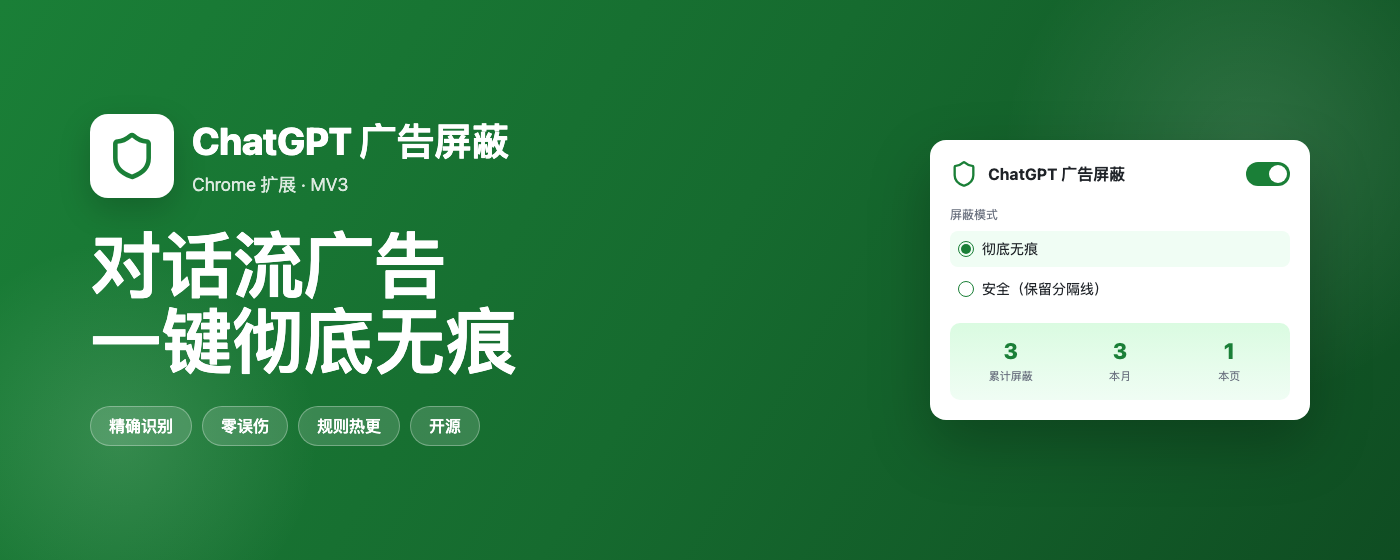
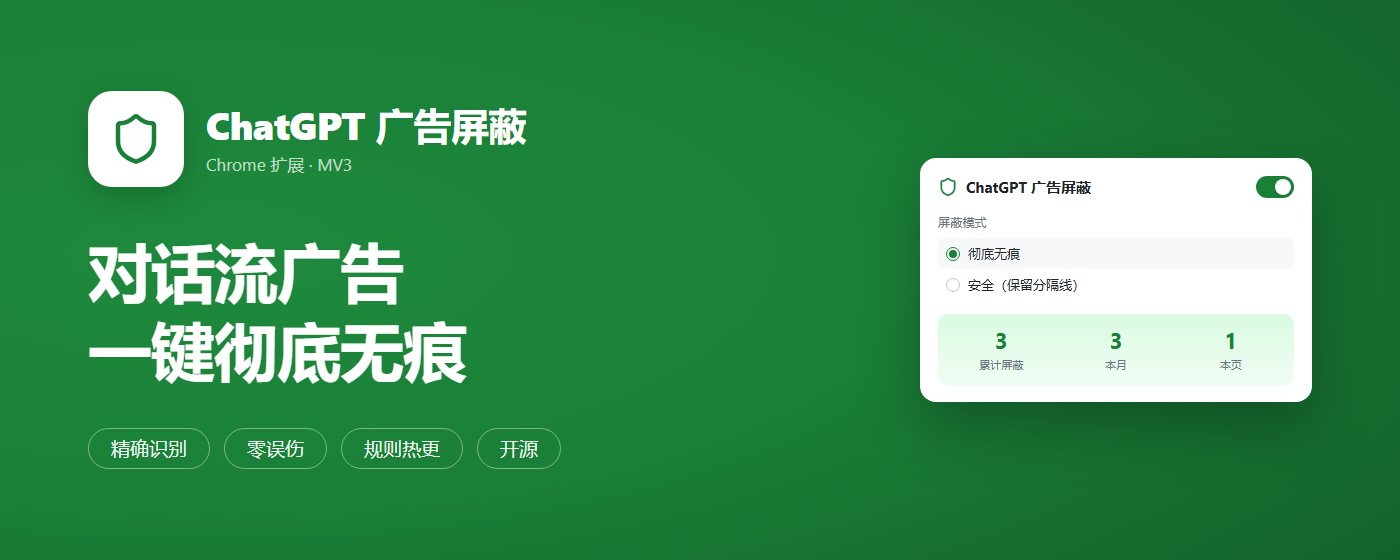
feat(promo): 新增中英双语宣传图模板与素材
- 新增 tools/promo-templates/ 宣传图 HTML 模板（中英共用，?lang=zh|en）
- 生成英文版 promo_marquee_en.png / promo_small_en.png
- 修复模板开关被 flex 拉伸过宽的问题
- 同步更新 README 与商店素材说明（含 headless 渲染尺寸补偿说明）

diff --git a/tools/promo-templates/promo_marquee.html b/tools/promo-templates/promo_marquee.html
@@ -1,0 +1,175 @@
+<!DOCTYPE html>
+<html lang="zh-CN">
+<head>
+<meta charset="UTF-8">
+<title>ChatGPT 广告屏蔽 · 宣传图（marquee）</title>
+<style>
+  * { box-sizing: border-box; margin: 0; padding: 0; }
+  :root {
+    --green: #1a7f37;
+    --green-bright: #1e8a3d;
+    --green-dark: #0f4d22;
+    --ink: #1f2328;
+    --ink-soft: #6b7280;
+    --border: #d0d7de;
+    --bg-soft: #f6f8fa;
+  }
+  html, body { width: 1400px; height: 560px; }
+  body {
+    font-family: -apple-system, BlinkMacSystemFont, "Segoe UI", "PingFang SC", "Microsoft YaHei", sans-serif;
+    background: radial-gradient(140% 130% at 15% 45%, var(--green-bright) 0%, var(--green) 36%, var(--green-dark) 100%);
+    color: #fff;
+    display: flex;
+    align-items: center;
+    gap: 64px;
+    padding: 0 88px;
+    overflow: hidden;
+  }
+
+  /* ---------- 左侧品牌区 ---------- */
+  .left { flex: 1; min-width: 0; }
+  .brand { display: flex; align-items: center; gap: 22px; }
+  .brand-logo {
+    width: 96px; height: 96px; border-radius: 24px; background: #fff;
+    display: flex; align-items: center; justify-content: center;
+    box-shadow: 0 10px 30px rgba(0, 0, 0, 0.18);
+  }
+  .brand-logo svg { width: 54px; height: 54px; color: var(--green); }
+  .brand-name { font-size: 38px; font-weight: 800; letter-spacing: -0.3px; line-height: 1.1; }
+  .brand-sub { font-size: 17px; color: rgba(255, 255, 255, 0.72); margin-top: 7px; }
+
+  .headline { margin-top: 44px; font-size: 64px; font-weight: 800; line-height: 1.22; letter-spacing: -1px; }
+
+  .tags { margin-top: 40px; display: flex; gap: 14px; flex-wrap: wrap; }
+  .tag {
+    border: 1px solid rgba(255, 255, 255, 0.42); border-radius: 999px;
+    padding: 10px 22px; font-size: 19px; line-height: 1; color: rgba(255, 255, 255, 0.95);
+    white-space: nowrap;
+  }
+
+  /* ---------- 右侧 popup 卡片 ---------- */
+  .card {
+    width: 392px; flex-shrink: 0; background: #fff; color: var(--ink);
+    border-radius: 16px; padding: 18px 18px 16px;
+    box-shadow: 0 24px 60px rgba(0, 0, 0, 0.28);
+  }
+  .c-head { display: flex; align-items: center; gap: 8px; margin-bottom: 16px; }
+  .c-head svg { width: 20px; height: 20px; color: var(--green); flex-shrink: 0; }
+  .c-head .c-name { font-size: 15px; font-weight: 700; flex: 1; min-width: 0; line-height: 1; }
+  .c-toggle {
+    width: 38px; height: 22px; border-radius: 22px; background: var(--green);
+    position: relative; flex-shrink: 0;
+  }
+  .c-toggle::before {
+    content: ""; position: absolute; width: 16px; height: 16px; left: 19px; top: 3px;
+    background: #fff; border-radius: 50%; box-shadow: 0 1px 2px rgba(0, 0, 0, 0.15);
+  }
+  .c-label { font-size: 12px; color: var(--ink-soft); margin-bottom: 8px; letter-spacing: 0.2px; }
+  .c-opt {
+    display: flex; align-items: center; gap: 8px; padding: 7px 8px;
+    font-size: 13px; border-radius: 6px;
+  }
+  .c-opt.active { background: var(--bg-soft); }
+  .c-radio {
+    width: 14px; height: 14px; border: 1.5px solid #c1c5cb; border-radius: 50%;
+    flex-shrink: 0; position: relative;
+  }
+  .c-opt.active .c-radio { border-color: var(--green); }
+  .c-opt.active .c-radio::after {
+    content: ""; position: absolute; inset: 2px; background: var(--green); border-radius: 50%;
+  }
+  .c-stats {
+    display: flex; gap: 4px; margin-top: 14px; padding: 14px 8px;
+    background: linear-gradient(180deg, #dafbe1 0%, #f0fdf4 100%); border-radius: 10px;
+  }
+  .c-stats div { flex: 1; text-align: center; }
+  .c-stats b {
+    display: block; font-size: 22px; font-weight: 700; color: var(--green);
+    line-height: 1.1; font-variant-numeric: tabular-nums;
+  }
+  .c-stats i { display: block; font-size: 11px; font-style: normal; color: var(--ink-soft); margin-top: 4px; }
+</style>
+</head>
+<body>
+  <div class="left">
+    <div class="brand">
+      <div class="brand-logo">
+        <svg viewBox="0 0 24 24" fill="none" stroke="currentColor" stroke-width="2" stroke-linecap="round" stroke-linejoin="round"><path d="M20 13c0 5-3.5 7.5-7.66 8.95a1 1 0 0 1-.67-.01C7.5 20.5 4 18 4 13V6a1 1 0 0 1 1-1c2 0 4.5-1.2 6.24-2.72a1.17 1.17 0 0 1 1.52 0C14.51 3.81 17 5 19 5a1 1 0 0 1 1 1z"/></svg>
+      </div>
+      <div>
+        <div class="brand-name" data-i="name">ChatGPT 广告屏蔽</div>
+        <div class="brand-sub" data-i="sub">Chrome 扩展 · MV3</div>
+      </div>
+    </div>
+
+    <div class="headline">
+      <div data-i="h1">对话流广告</div>
+      <div data-i="h2">一键彻底无痕</div>
+    </div>
+
+    <div class="tags" data-i-list="tags">
+      <span class="tag" data-i-item>精确识别</span>
+      <span class="tag" data-i-item>零误伤</span>
+      <span class="tag" data-i-item>规则热更</span>
+      <span class="tag" data-i-item>开源</span>
+    </div>
+  </div>
+
+  <div class="card">
+    <div class="c-head">
+      <svg viewBox="0 0 24 24" fill="none" stroke="currentColor" stroke-width="2" stroke-linecap="round" stroke-linejoin="round"><path d="M20 13c0 5-3.5 7.5-7.66 8.95a1 1 0 0 1-.67-.01C7.5 20.5 4 18 4 13V6a1 1 0 0 1 1-1c2 0 4.5-1.2 6.24-2.72a1.17 1.17 0 0 1 1.52 0C14.51 3.81 17 5 19 5a1 1 0 0 1 1 1z"/></svg>
+      <span class="c-name" data-i="cardName">ChatGPT 广告屏蔽</span>
+      <span class="c-toggle"></span>
+    </div>
+    <div class="c-label" data-i="cardLabel">屏蔽模式</div>
+    <div class="c-opt active"><span class="c-radio"></span><span data-i="opt1">彻底无痕</span></div>
+    <div class="c-opt"><span class="c-radio"></span><span data-i="opt2">安全（保留分隔线）</span></div>
+    <div class="c-stats">
+      <div><b>3</b><i data-i="s1">累计屏蔽</i></div>
+      <div><b>3</b><i data-i="s2">本月</i></div>
+      <div><b>1</b><i data-i="s3">本页</i></div>
+    </div>
+  </div>
+
+  <script>
+    (function () {
+      'use strict';
+      var I18N = {
+        zh: {
+          title: 'ChatGPT 广告屏蔽 · 宣传图',
+          name: 'ChatGPT 广告屏蔽', sub: 'Chrome 扩展 · MV3',
+          h1: '对话流广告', h2: '一键彻底无痕',
+          tags: ['精确识别', '零误伤', '规则热更', '开源'],
+          cardName: 'ChatGPT 广告屏蔽', cardLabel: '屏蔽模式',
+          opt1: '彻底无痕', opt2: '安全（保留分隔线）',
+          s1: '累计屏蔽', s2: '本月', s3: '本页'
+        },
+        en: {
+          title: 'ChatGPT Ad Blocker · Promo',
+          name: 'ChatGPT Ad Blocker', sub: 'Chrome Extension · MV3',
+          h1: 'In-chat ads', h2: 'Blocked seamlessly',
+          tags: ['Precise', 'Zero false positives', 'Hot-updatable rules', 'Open source'],
+          cardName: 'ChatGPT Ad Blocker', cardLabel: 'Blocking mode',
+          opt1: 'Seamless', opt2: 'Safe (keep divider)',
+          s1: 'Total blocked', s2: 'This month', s3: 'This page'
+        }
+      };
+      var lang = 'zh';
+      try { if (new URLSearchParams(location.search).get('lang') === 'en') lang = 'en'; } catch (e) { /* ignore */ }
+      var t = I18N[lang];
+      document.documentElement.lang = lang === 'en' ? 'en' : 'zh-CN';
+      document.title = t.title;
+      document.querySelectorAll('[data-i]').forEach(function (el) {
+        var v = t[el.getAttribute('data-i')];
+        if (typeof v === 'string') el.textContent = v;
+      });
+      document.querySelectorAll('[data-i-list]').forEach(function (el) {
+        var arr = t[el.getAttribute('data-i-list')] || [];
+        el.querySelectorAll('[data-i-item]').forEach(function (item, i) {
+          if (arr[i] != null) item.textContent = arr[i];
+        });
+      });
+    })();
+  </script>
+</body>
+</html>

diff --git a/tools/promo-templates/promo_small.html b/tools/promo-templates/promo_small.html
@@ -1,0 +1,102 @@
+<!DOCTYPE html>
+<html lang="zh-CN">
+<head>
+<meta charset="UTF-8">
+<title>ChatGPT 广告屏蔽 · 宣传图（small）</title>
+<style>
+  * { box-sizing: border-box; margin: 0; padding: 0; }
+  :root {
+    --green: #1a7f37;
+    --green-bright: #1e8a3d;
+    --green-dark: #0f4d22;
+  }
+  html, body { width: 440px; height: 280px; }
+  body {
+    font-family: -apple-system, BlinkMacSystemFont, "Segoe UI", "PingFang SC", "Microsoft YaHei", sans-serif;
+    background: radial-gradient(150% 140% at 18% 40%, var(--green-bright) 0%, var(--green) 40%, var(--green-dark) 100%);
+    color: #fff;
+    display: flex;
+    flex-direction: column;
+    justify-content: space-between;
+    padding: 26px 28px;
+    overflow: hidden;
+  }
+
+  .brand { display: flex; align-items: center; gap: 14px; }
+  .brand-logo {
+    width: 54px; height: 54px; border-radius: 14px; background: #fff;
+    display: flex; align-items: center; justify-content: center;
+    box-shadow: 0 6px 18px rgba(0, 0, 0, 0.18);
+  }
+  .brand-logo svg { width: 31px; height: 31px; color: var(--green); }
+  .brand-name { font-size: 23px; font-weight: 800; letter-spacing: -0.2px; line-height: 1.1; }
+  .brand-sub { font-size: 13px; color: rgba(255, 255, 255, 0.72); margin-top: 4px; }
+
+  .headline { font-size: 36px; font-weight: 800; line-height: 1.24; letter-spacing: -0.6px; }
+
+  .tags { display: flex; gap: 10px; flex-wrap: wrap; }
+  .tag {
+    border: 1px solid rgba(255, 255, 255, 0.42); border-radius: 999px;
+    padding: 6px 14px; font-size: 13px; line-height: 1; color: rgba(255, 255, 255, 0.95);
+    white-space: nowrap;
+  }
+</style>
+</head>
+<body>
+  <div class="brand">
+    <div class="brand-logo">
+      <svg viewBox="0 0 24 24" fill="none" stroke="currentColor" stroke-width="2" stroke-linecap="round" stroke-linejoin="round"><path d="M20 13c0 5-3.5 7.5-7.66 8.95a1 1 0 0 1-.67-.01C7.5 20.5 4 18 4 13V6a1 1 0 0 1 1-1c2 0 4.5-1.2 6.24-2.72a1.17 1.17 0 0 1 1.52 0C14.51 3.81 17 5 19 5a1 1 0 0 1 1 1z"/></svg>
+    </div>
+    <div>
+      <div class="brand-name" data-i="name">ChatGPT 广告屏蔽</div>
+      <div class="brand-sub" data-i="sub">Chrome 扩展</div>
+    </div>
+  </div>
+
+  <div class="headline">
+    <div data-i="h1">彻底无痕</div>
+    <div data-i="h2">零误伤</div>
+  </div>
+
+  <div class="tags" data-i-list="tags">
+    <span class="tag" data-i-item>精确识别</span>
+    <span class="tag" data-i-item>规则热更</span>
+    <span class="tag" data-i-item>开源</span>
+  </div>
+
+  <script>
+    (function () {
+      'use strict';
+      var I18N = {
+        zh: {
+          title: 'ChatGPT 广告屏蔽 · 宣传图',
+          name: 'ChatGPT 广告屏蔽', sub: 'Chrome 扩展',
+          h1: '彻底无痕', h2: '零误伤',
+          tags: ['精确识别', '规则热更', '开源']
+        },
+        en: {
+          title: 'ChatGPT Ad Blocker · Promo',
+          name: 'ChatGPT Ad Blocker', sub: 'Chrome Extension',
+          h1: 'Seamless', h2: 'Zero false positives',
+          tags: ['Precise', 'Hot-updatable rules', 'Open source']
+        }
+      };
+      var lang = 'zh';
+      try { if (new URLSearchParams(location.search).get('lang') === 'en') lang = 'en'; } catch (e) { /* ignore */ }
+      var t = I18N[lang];
+      document.documentElement.lang = lang === 'en' ? 'en' : 'zh-CN';
+      document.title = t.title;
+      document.querySelectorAll('[data-i]').forEach(function (el) {
+        var v = t[el.getAttribute('data-i')];
+        if (typeof v === 'string') el.textContent = v;
+      });
+      document.querySelectorAll('[data-i-list]').forEach(function (el) {
+        var arr = t[el.getAttribute('data-i-list')] || [];
+        el.querySelectorAll('[data-i-item]').forEach(function (item, i) {
+          if (arr[i] != null) item.textContent = arr[i];
+        });
+      });
+    })();
+  </script>
+</body>
+</html>

diff --git a/docs/assets/store/README.md b/docs/assets/store/README.md
@@ -16,9 +16,13 @@ docs/assets/store/
 │   ├── feature-popup-en.png      # 功能总览场景·English（1280×800）
 │   ├── feature-chat-zh.png       # 对话流屏蔽效果·中文（1280×800）
 │   └── feature-chat-en.png       # 对话流屏蔽效果·English（1280×800）
-├── promo_small.png               # 小型宣传图（440×280）
-└── promo_marquee.png             # 大型宣传图（1400×560）
+├── promo_small.png               # 小型宣传图·中文（440×280）
+├── promo_small_en.png            # 小型宣传图·English（440×280）
+├── promo_marquee.png             # 大型宣传图·中文（1400×560）
+└── promo_marquee_en.png          # 大型宣传图·English（1400×560）
 ```
+
+> 宣传图模板位于仓库根目录 `tools/promo-templates/promo_{small,marquee}.html`，支持 `?lang=zh|en`（中英同一套模板、同一份内容，仅文案不同）。
 
 ## 重新生成方法
 
@@ -51,20 +55,35 @@ for p in popup-zh popup-en chat-zh chat-en; do
     "http://localhost:8766/.temp/store-mock/scene-$p.html"
 done
 
-# 宣传图 small（440×280）
-"$CHROME" --headless --disable-gpu --hide-scrollbars \
-  --window-size=440,280 \
-  --screenshot=docs/assets/store/promo_small.png \
-  http://localhost:8766/docs/_mock/promo_small.html
+# ── 宣传图（中英双语，440×280 / 1400×560）──────────────────────
+# 模板：tools/promo-templates/promo_{small,marquee}.html，支持 ?lang=zh|en
+#
+# ⚠ 新版 Chrome headless 的 --window-size 是「窗口」尺寸：
+#    实际视口 = 窗口 − (16, 95)，而 --screenshot 截取整个窗口。
+#    因此要按「目标尺寸 + (16, 95)」渲染，再裁剪回目标尺寸：
+#      marquee 目标 1400×560 → 窗口 1416,655
+#      small   目标  440×280 → 窗口  456,375
+#    并加 --user-data-dir 避免复用已运行的 Chrome 会话导致参数失效。
 
-# 宣传图 marquee（1400×560）
-"$CHROME" --headless --disable-gpu --hide-scrollbars \
-  --window-size=1400,560 \
-  --screenshot=docs/assets/store/promo_marquee.png \
-  http://localhost:8766/docs/_mock/promo_marquee.html
+# 渲染（Windows / PowerShell，已验证）
+$chrome = "C:\Program Files\Google\Chrome\Application\chrome.exe"
+& $chrome --headless=new --disable-gpu --hide-scrollbars --user-data-dir="$env:TEMP\cbad-shot" `
+  --window-size=1416,655 --virtual-time-budget=2000 `
+  --screenshot="$env:TEMP\marquee_en.png" "file://$PWD/tools/promo-templates/promo_marquee.html?lang=en"
+
+# 裁剪回目标尺寸（System.Drawing）
+Add-Type -AssemblyName System.Drawing
+$i=[System.Drawing.Image]::FromFile("$env:TEMP\marquee_en.png")
+$b=New-Object System.Drawing.Bitmap 1400,560
+$g=[System.Drawing.Graphics]::FromImage($b)
+$g.DrawImage($i,(New-Object System.Drawing.Rectangle 0,0,1400,560),(New-Object System.Drawing.Rectangle 0,0,1400,560),[System.Drawing.GraphicsUnit]::Pixel)
+$b.Save("docs/assets/store/promo_marquee_en.png",[System.Drawing.Imaging.ImageFormat]::Png)
+
+# macOS：裁剪可直接用 sips
+#   sips -c 560 1400 "$TMPDIR/marquee_en.png" --out docs/assets/store/promo_marquee_en.png
 ```
 
-> HTML 模板的当前版本已与截图同步，**修改模板后需重新截图**才能在商店生效。模板可放 `docs/_mock/` 或 `tools/promo-templates/` 自行维护。
+> HTML 模板的当前版本已与截图同步，**修改模板后需重新截图**才能在商店生效。宣传图模板统一放在 `tools/promo-templates/`（中英共用一套）；`screenshots/` 里其余场景图的模板为一次性产物，未纳入仓库。
 
 ## Chrome Web Store 上架素材清单
 
@@ -72,6 +91,6 @@ done
 |---|---|---|---|
 | 商店主截图（中文区） | `feature-popup-zh.png`、`feature-chat-zh.png`（另有 `popup.png`、`screenshot-compare.png`） | 1280×800 / 640×400，1-5 张 | ✅ |
 | 商店主截图（English 区） | `feature-popup-en.png`、`feature-chat-en.png` | 1280×800 / 640×400，1-5 张 | ✅ |
-| Small promo tile | `promo_small.png` | 440×280 | 推荐 |
-| Marquee promo tile | `promo_marquee.png` | 1400×560 | 推荐 |
+| Small promo tile | `promo_small.png`（中）/ `promo_small_en.png`（英） | 440×280 | 推荐 |
+| Marquee promo tile | `promo_marquee.png`（中）/ `promo_marquee_en.png`（英） | 1400×560 | 推荐 |
 | 扩展图标 | `../icons/icon128.png` | 128×128 PNG | ✅ |

diff --git a/README.md b/README.md
@@ -36,7 +36,9 @@ chatgpt-ad-blocker/
 │   ├── privacy.html           # 隐私政策（中英双语）
 │   └── assets/
 │       ├── style.css
-│       └── store/             # 商店素材（screenshots + promo tiles）
+│       └── store/             # 商店素材（screenshots + promo tiles，中英双语）
+├── tools/
+│   └── promo-templates/       # 宣传图 HTML 模板（中英共用，?lang=zh|en）
 └── rules.json                 # 远程热更规则
 ```
 
